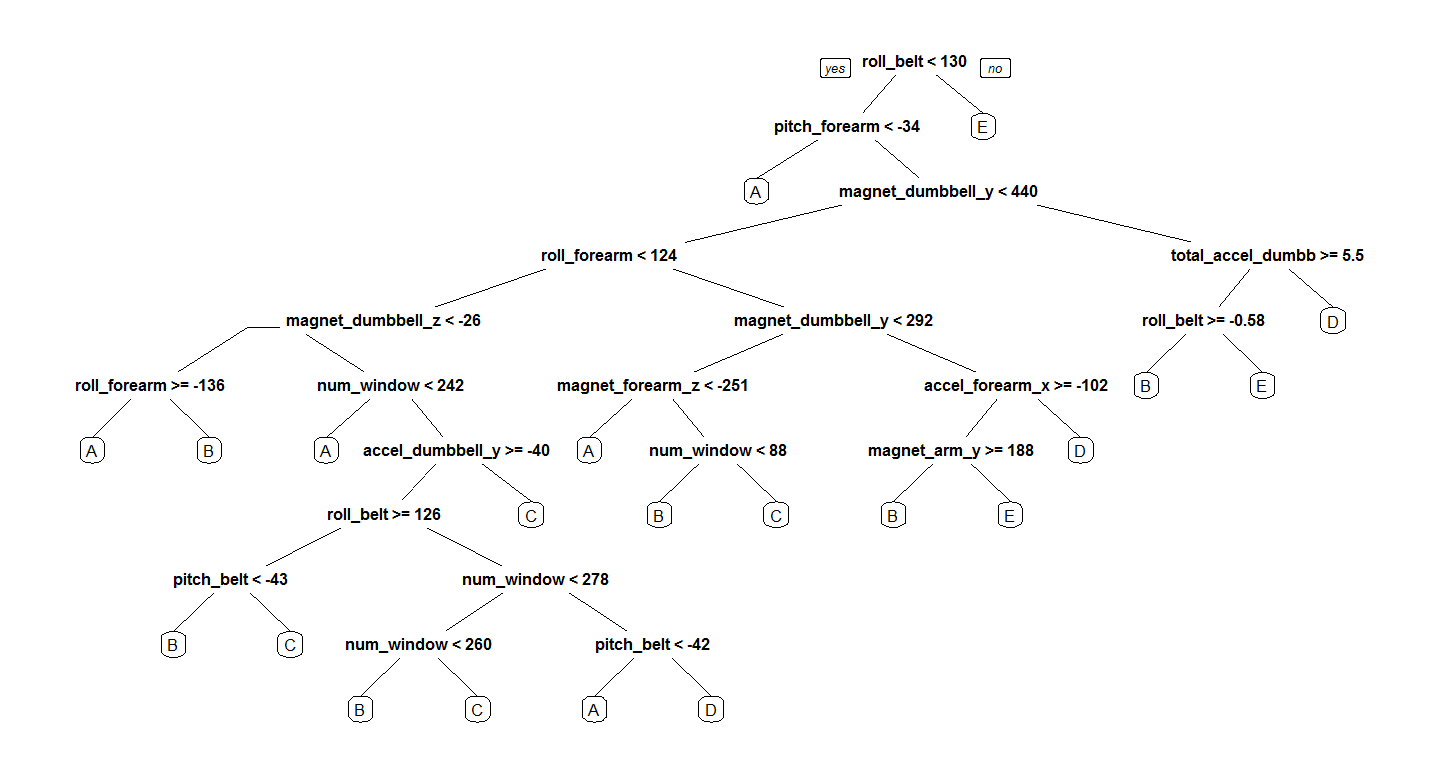
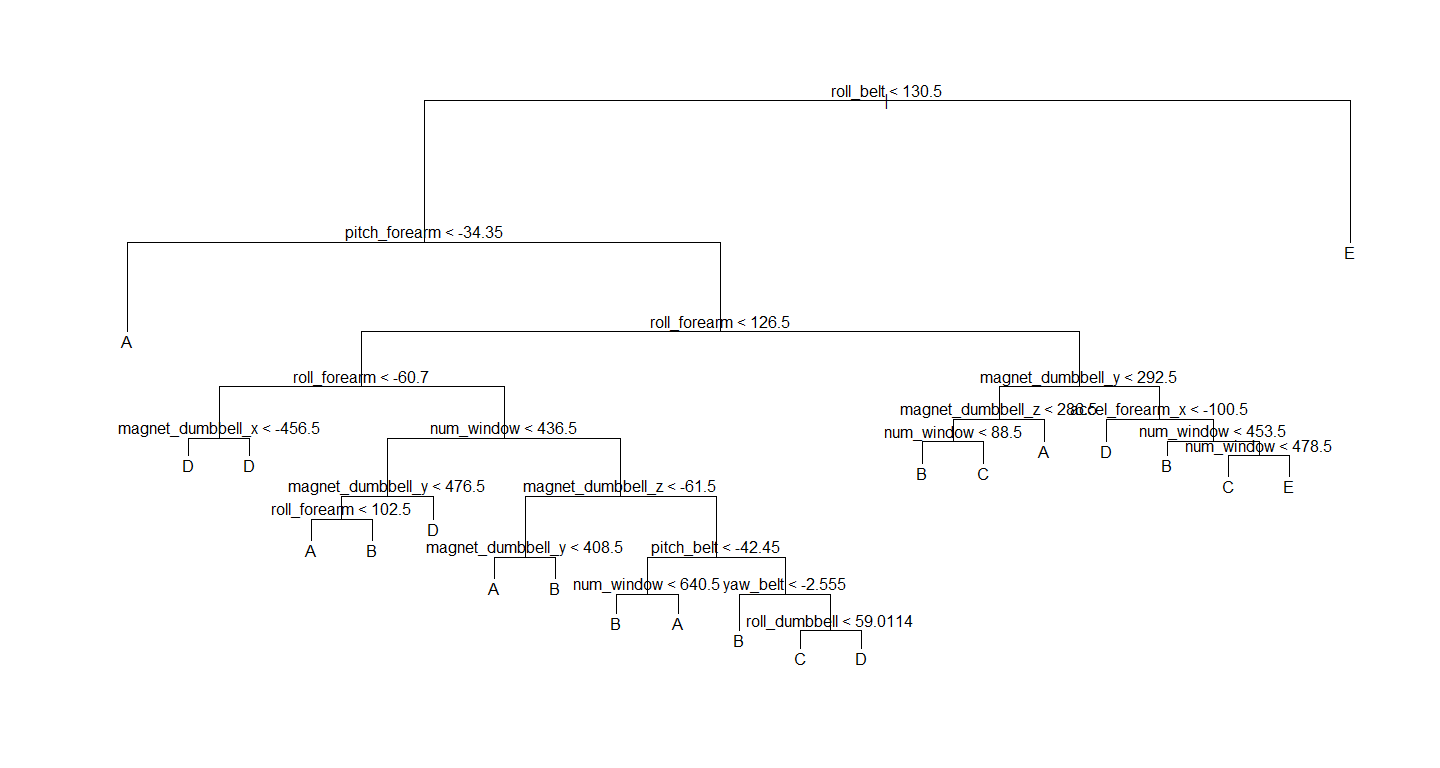
course project

diff --git a/Coursera/machine-learning.html b/Coursera/machine-learning.html
@@ -77,7 +77,7 @@ img {
 </div>
 <div id="overview" class="section level4">
 <h4>3. Overview</h4>
-<p>In this project, I will train a classification tree using both the rpart and tree package and determine which one is better by looking at their prediction accuracy ( I know random forest will definitely generate better results, but compared to other tree-models it takes a little bit too long, so I won’t be using that )</p>
+<p>In this project, I will train a classification tree using only the rpart and the tree package on part of the training dataset, then determine which one is better by looking at their prediction accuracy on the other part of the training dataset ( I know random forest will definitely generate better results, but compared to other tree-models it takes a little bit too long, so I won’t be using that ).</p>
 </div>
 </div>
 <div id="i.-environment-setting-and-loading-dataset" class="section level2">
@@ -201,7 +201,15 @@ list( confusionMatrix = matrix_rpart$table, modelAccuracy = matrix_rpart$overall
 ## $modelAccuracy
 ##  Accuracy 
 ## 0.7326672</code></pre>
-<p><strong>Conclustion:</strong> For this dataset, after removing the predictors that contains lots of NA values and the ones that were assumed to be irrelevant to the outomce ( e.g. name, timestamp ), the model that was built by the rpart package seems to perform a little bit better than the one generated by the tree package.</p>
+<p><strong>Conclustion:</strong> For this dataset, after removing the predictors that contains lots of NA values and the ones that were assumed to be irrelevant to the outomce ( e.g. name, timestamp ), the model that was built by the rpart package seems to perform a little bit better than the one generated by the tree package. Thus we will use the rpart-model to predict the “classe” for the actual testing dataset.</p>
+<pre class="r"><code># extract the actual testing set
+testing &lt;- preprocessed[[1]]
+# predict it using th rpart model
+predict( train_rpart, newdata = testing, type = &quot;class&quot; )</code></pre>
+<pre><code>##  1  2  3  4  5  6  7  8  9 10 11 12 13 14 15 16 17 18 19 20 
+##  B  A  B  A  A  C  D  D  A  A  C  B  C  A  E  D  A  B  B  B 
+## Levels: A B C D E</code></pre>
+<p><strong>Note:</strong> This is my predicted “classe” result for the testing dataset, and when compared to the actual answer, I got 70 percent of them correct, which is close to the estimated accuracy of the model that was built from the rpart package.</p>
 </div>
 <div id="iv.-appendix" class="section level2">
 <h2>IV. Appendix</h2>

diff --git a/Coursera/machine-learning.md b/Coursera/machine-learning.md
@@ -14,7 +14,7 @@ The goal of this project is to predict the manner in which they did the exercise
 
 #### 3. Overview
 
-In this project, I will train a classification tree using both the rpart and tree package and determine which one is better by looking at their prediction accuracy ( I know random forest will definitely generate better results, but compared to other tree-models it takes a little bit too long, so I won't be using that )  
+In this project, I will train a classification tree using only the rpart and the tree package on part of the training dataset, then determine which one is better by looking at their prediction accuracy on the other part of the training dataset ( I know random forest will definitely generate better results, but compared to other tree-models it takes a little bit too long, so I won't be using that ).  
 
 
 ## I. Environment Setting and Loading Dataset 
@@ -179,8 +179,23 @@ list( confusionMatrix = matrix_rpart$table, modelAccuracy = matrix_rpart$overall
 ## 0.7326672
 ```
 
-**Conclustion:** For this dataset, after removing the predictors that contains lots of NA values and the ones that were assumed to be irrelevant to the outomce ( e.g. name, timestamp ), the model that was built by the rpart package seems to perform a little bit better than the one generated by the tree package.
+**Conclustion:** For this dataset, after removing the predictors that contains lots of NA values and the ones that were assumed to be irrelevant to the outomce ( e.g. name, timestamp ), the model that was built by the rpart package seems to perform a little bit better than the one generated by the tree package. Thus we will use the rpart-model to predict the "classe" for the actual testing dataset.
 
+
+```r
+# extract the actual testing set
+testing <- preprocessed[[1]]
+# predict it using th rpart model
+predict( train_rpart, newdata = testing, type = "class" )
+```
+
+```
+##  1  2  3  4  5  6  7  8  9 10 11 12 13 14 15 16 17 18 19 20 
+##  B  A  B  A  A  C  D  D  A  A  C  B  C  A  E  D  A  B  B  B 
+## Levels: A B C D E
+```
+
+**Note:** This is my predicted "classe" result for the testing dataset, and when compared to the actual answer, I got 70 percent of them correct, which is close to the estimated accuracy of the model that was built from the rpart package.
 
 ## IV. Appendix
 
@@ -193,7 +208,7 @@ plot(train_tree)
 text(train_tree, digits = 2 )
 ```
 
-![](machine-learning_files/figure-html/unnamed-chunk-8-1.png) 
+![](machine-learning_files/figure-html/unnamed-chunk-9-1.png) 
 
 - **Plot of the rpart-model**
 
@@ -202,7 +217,7 @@ suppressWarnings( library(rpart.plot) )
 rpart.plot(train_rpart)
 ```
 
-![](machine-learning_files/figure-html/unnamed-chunk-9-1.png) 
+![](machine-learning_files/figure-html/unnamed-chunk-10-1.png) 
 
 
 

diff --git a/README.md b/README.md
@@ -1,1 +1,7 @@
 # machine-learning
+
+**Coursera** 2015.7.24
+
+- Course project for the Practical Machine Learning on Coursera.
+	- The `machine-learning.md` is the github version report for the project.
+	- The `machine-learning.R` contains the R code for used in the report, it may contain other testing codes that were not used in the report.
